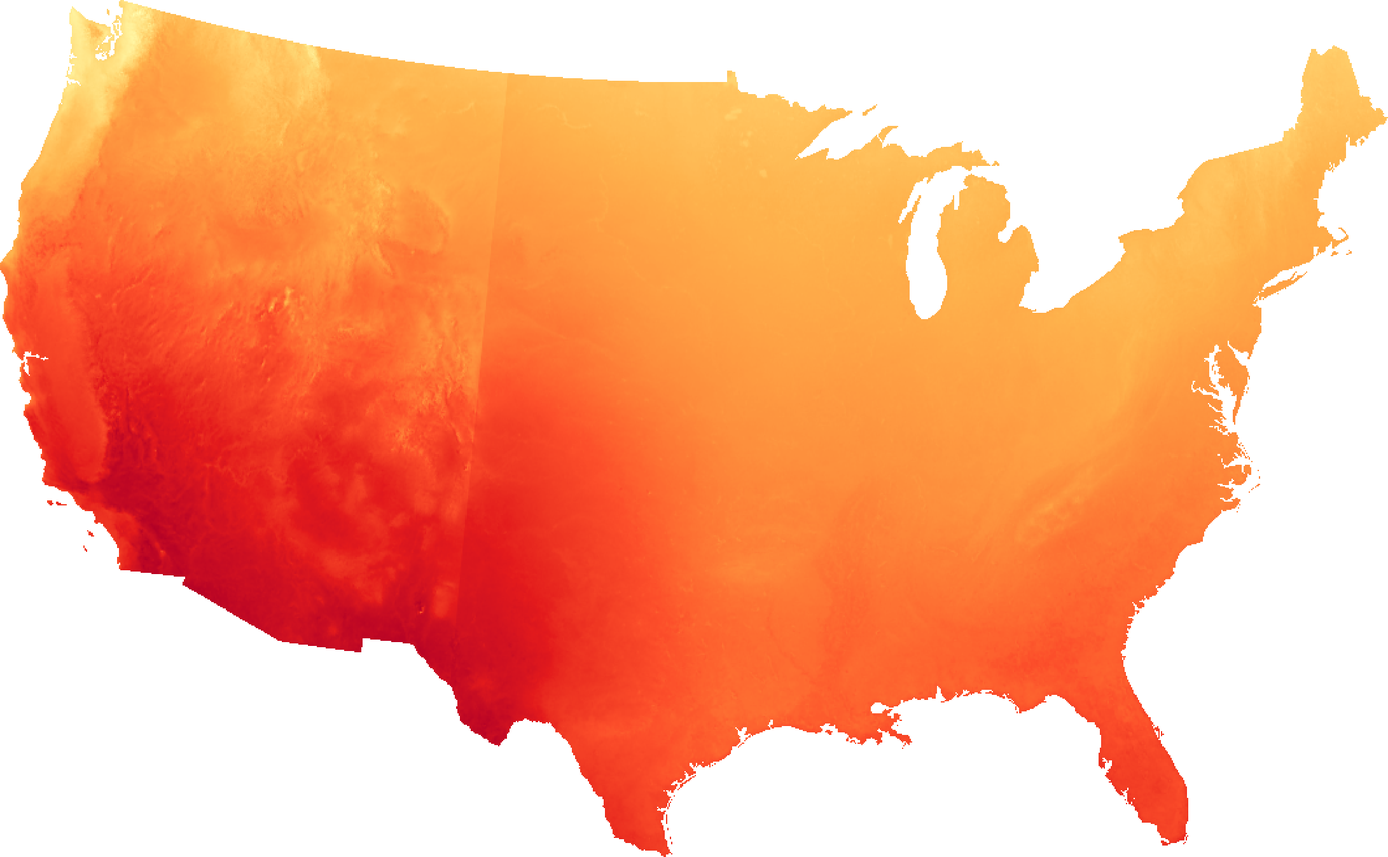
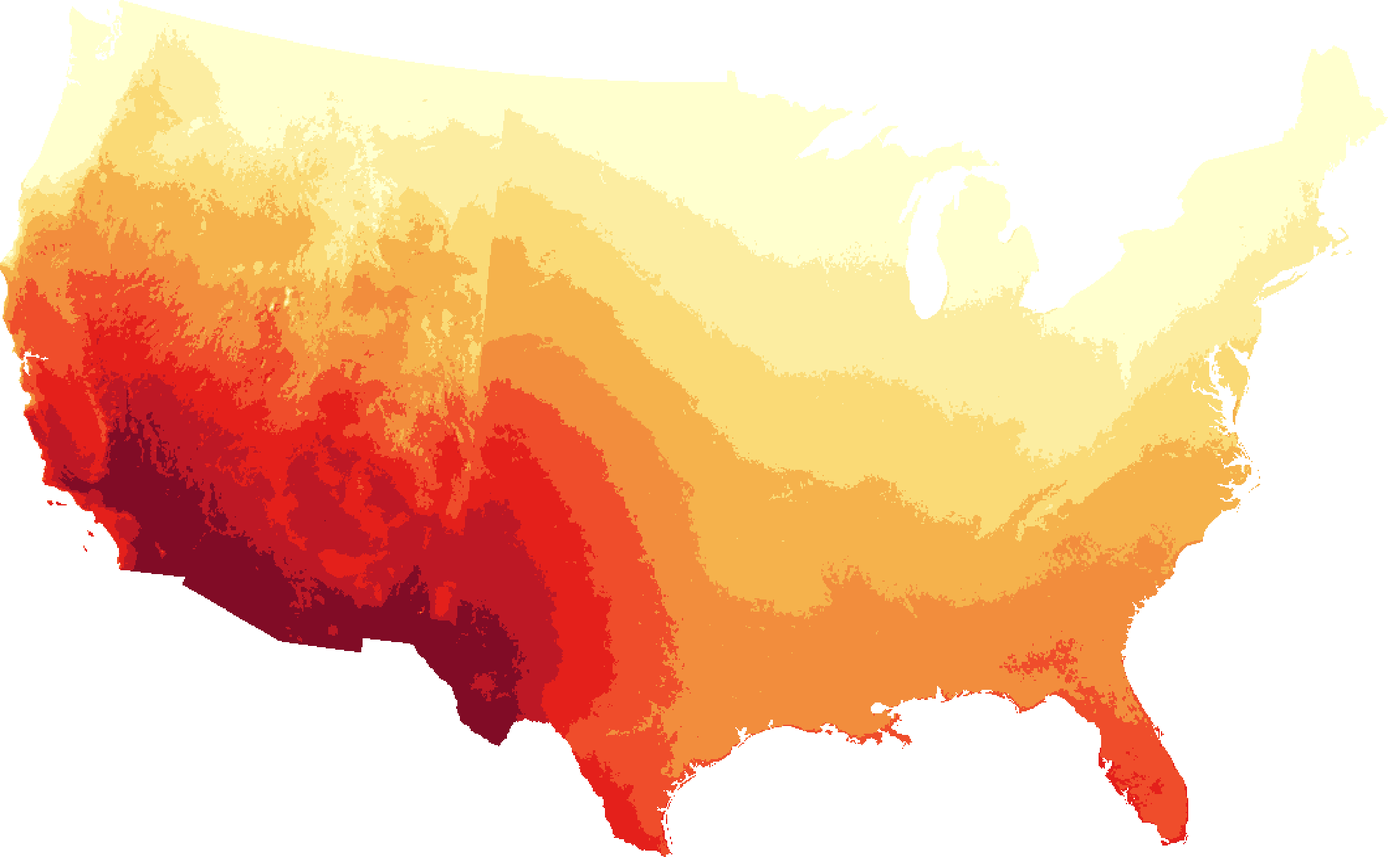
New rasters and legends

diff --git a/docs/assets/bundle.js b/docs/assets/bundle.js
@@ -8,7 +8,7 @@
  *
  * This source code is licensed under the ISC license.
  * See the LICENSE file in the root directory of this source tree.
- */const Qr={xmlns:"http://www.w3.org/2000/svg",width:24,height:24,viewBox:"0 0 24 24",fill:"none",stroke:"currentColor","stroke-width":2,"stroke-linecap":"round","stroke-linejoin":"round"},f7=Qr;function d7(e,t,n){const r=e.slice();return r[11]=t[n][0],r[12]=t[n][1],r}function l5(e){let t,n=[e[12]],r={};for(let i=0;i<n.length;i+=1)r=J1(r,n[i]);return{c(){t=I1(e[11]),y2(t,r)},m(i,a){z(i,t,a)},p(i,a){y2(t,r=q4(n,[a&32&&i[12]]))},d(i){i&&H(t)}}}function g7(e){let t=e[11],n,r=e[11]&&l5(e);return{c(){r&&r.c(),n=g3()},m(i,a){r&&r.m(i,a),z(i,n,a)},p(i,a){i[11]?t?A1(t,i[11])?(r.d(1),r=l5(i),t=i[11],r.c(),r.m(n.parentNode,n)):r.p(i,a):(r=l5(i),t=i[11],r.c(),r.m(n.parentNode,n)):t&&(r.d(1),r=null,t=i[11])},d(i){i&&H(n),r&&r.d(i)}}}function $r(e){let t,n,r,i,a,o=e[5],s=[];for(let p=0;p<o.length;p+=1)s[p]=g7(d7(e,o,p));const c=e[10].default,u=R1(c,e,e[9],null);let l=[f7,e[7],{width:e[2]},{height:e[2]},{stroke:e[1]},{"stroke-width":r=e[4]?Number(e[3])*24/Number(e[2]):e[3]},{class:i=e[6]("lucide-icon","lucide",e[0]?`lucide-${e[0]}`:"",e[8].class)}],d={};for(let p=0;p<l.length;p+=1)d=J1(d,l[p]);return{c(){t=I1("svg");for(let p=0;p<s.length;p+=1)s[p].c();n=g3(),u&&u.c(),y2(t,d)},m(p,f){z(p,t,f);for(let g=0;g<s.length;g+=1)s[g]&&s[g].m(t,null);L(t,n),u&&u.m(t,null),a=!0},p(p,[f]){if(f&32){o=p[5];let g;for(g=0;g<o.length;g+=1){const m=d7(p,o,g);s[g]?s[g].p(m,f):(s[g]=g7(m),s[g].c(),s[g].m(t,n))}for(;g<s.length;g+=1)s[g].d(1);s.length=o.length}u&&u.p&&(!a||f&512)&&P1(u,c,p,p[9],a?v1(c,p[9],f,null):b1(p[9]),null),y2(t,d=q4(l,[f7,f&128&&p[7],(!a||f&4)&&{width:p[2]},(!a||f&4)&&{height:p[2]},(!a||f&2)&&{stroke:p[1]},(!a||f&28&&r!==(r=p[4]?Number(p[3])*24/Number(p[2]):p[3]))&&{"stroke-width":r},(!a||f&257&&i!==(i=p[6]("lucide-icon","lucide",p[0]?`lucide-${p[0]}`:"",p[8].class)))&&{class:i}]))},i(p){a||(F(u,p),a=!0)},o(p){B(u,p),a=!1},d(p){p&&H(t),N1(s,p),u&&u.d(p)}}}function ei(e,t,n){const r=["name","color","size","strokeWidth","absoluteStrokeWidth","iconNode"];let i=i9(t,r),{$$slots:a={},$$scope:o}=t,{name:s=void 0}=t,{color:c="currentColor"}=t,{size:u=24}=t,{strokeWidth:l=2}=t,{absoluteStrokeWidth:d=!1}=t,{iconNode:p}=t;const f=(...g)=>g.filter((m,I,h)=>!!m&&h.indexOf(m)===I).join(" ");return e.$$set=g=>{n(8,t=J1(J1({},t),g4(g))),n(7,i=i9(t,r)),"name"in g&&n(0,s=g.name),"color"in g&&n(1,c=g.color),"size"in g&&n(2,u=g.size),"strokeWidth"in g&&n(3,l=g.strokeWidth),"absoluteStrokeWidth"in g&&n(4,d=g.absoluteStrokeWidth),"iconNode"in g&&n(5,p=g.iconNode),"$$scope"in g&&n(9,o=g.$$scope)},t=g4(t),[s,c,u,l,d,p,f,i,t,o,a]}class ti extends M1{constructor(t){super(),F1(this,t,ei,$r,A1,{name:0,color:1,size:2,strokeWidth:3,absoluteStrokeWidth:4,iconNode:5})}}const v6=ti;function ni(e){let t;const n=e[2].default,r=R1(n,e,e[3],null);return{c(){r&&r.c()},m(i,a){r&&r.m(i,a),t=!0},p(i,a){r&&r.p&&(!t||a&8)&&P1(r,n,i,i[3],t?v1(n,i[3],a,null):b1(i[3]),null)},i(i){t||(F(r,i),t=!0)},o(i){B(r,i),t=!1},d(i){r&&r.d(i)}}}function ri(e){let t,n;const r=[{name:"layers"},e[1],{iconNode:e[0]}];let i={$$slots:{default:[ni]},$$scope:{ctx:e}};for(let a=0;a<r.length;a+=1)i=J1(i,r[a]);return t=new v6({props:i}),{c(){D1(t.$$.fragment)},m(a,o){m1(t,a,o),n=!0},p(a,[o]){const s=o&3?q4(r,[r[0],o&2&&P7(a[1]),o&1&&{iconNode:a[0]}]):{};o&8&&(s.$$scope={dirty:o,ctx:a}),t.$set(s)},i(a){n||(F(t.$$.fragment,a),n=!0)},o(a){B(t.$$.fragment,a),n=!1},d(a){y1(t,a)}}}function ii(e,t,n){let{$$slots:r={},$$scope:i}=t;const a=[["path",{d:"m12.83 2.18a2 2 0 0 0-1.66 0L2.6 6.08a1 1 0 0 0 0 1.83l8.58 3.91a2 2 0 0 0 1.66 0l8.58-3.9a1 1 0 0 0 0-1.83Z"}],["path",{d:"m22 17.65-9.17 4.16a2 2 0 0 1-1.66 0L2 17.65"}],["path",{d:"m22 12.65-9.17 4.16a2 2 0 0 1-1.66 0L2 12.65"}]];return e.$$set=o=>{n(1,t=J1(J1({},t),g4(o))),"$$scope"in o&&n(3,i=o.$$scope)},t=g4(t),[a,t,r,i]}class oi extends M1{constructor(t){super(),F1(this,t,ii,ri,A1,{})}}const ai=oi;function si(e){let t;const n=e[2].default,r=R1(n,e,e[3],null);return{c(){r&&r.c()},m(i,a){r&&r.m(i,a),t=!0},p(i,a){r&&r.p&&(!t||a&8)&&P1(r,n,i,i[3],t?v1(n,i[3],a,null):b1(i[3]),null)},i(i){t||(F(r,i),t=!0)},o(i){B(r,i),t=!1},d(i){r&&r.d(i)}}}function li(e){let t,n;const r=[{name:"search"},e[1],{iconNode:e[0]}];let i={$$slots:{default:[si]},$$scope:{ctx:e}};for(let a=0;a<r.length;a+=1)i=J1(i,r[a]);return t=new v6({props:i}),{c(){D1(t.$$.fragment)},m(a,o){m1(t,a,o),n=!0},p(a,[o]){const s=o&3?q4(r,[r[0],o&2&&P7(a[1]),o&1&&{iconNode:a[0]}]):{};o&8&&(s.$$scope={dirty:o,ctx:a}),t.$set(s)},i(a){n||(F(t.$$.fragment,a),n=!0)},o(a){B(t.$$.fragment,a),n=!1},d(a){y1(t,a)}}}function ci(e,t,n){let{$$slots:r={},$$scope:i}=t;const a=[["circle",{cx:"11",cy:"11",r:"8"}],["path",{d:"m21 21-4.3-4.3"}]];return e.$$set=o=>{n(1,t=J1(J1({},t),g4(o))),"$$scope"in o&&n(3,i=o.$$scope)},t=g4(t),[a,t,r,i]}class ui extends M1{constructor(t){super(),F1(this,t,ci,li,A1,{})}}const pi=ui;function fi(e){let t,n,r;return n=new pi({props:{size:"16",color:"#7B8792"}}),{c(){t=W("div"),D1(n.$$.fragment),S(t,"slot","prepend")},m(i,a){z(i,t,a),m1(n,t,null),r=!0},p:$,i(i){r||(F(n.$$.fragment,i),r=!0)},o(i){B(n.$$.fragment,i),r=!1},d(i){i&&H(t),y1(n)}}}function di(e){let t,n,r;return n=new ai({props:{size:"16",color:"#7B8792"}}),{c(){t=W("div"),D1(n.$$.fragment),S(t,"slot","prepend")},m(i,a){z(i,t,a),m1(n,t,null),r=!0},p:$,i(i){r||(F(n.$$.fragment,i),r=!0)},o(i){B(n.$$.fragment,i),r=!1},d(i){i&&H(t),y1(n)}}}function gi(e){let t,n,r,i,a,o,s,c,u,l,d,p;function f(h){e[6](h)}let g={items:e[2].map(m7),placeholder:"Search all projects",$$slots:{prepend:[fi]},$$scope:{ctx:e}};e[0]!==void 0&&(g.justValue=e[0]),n=new p7({props:g}),q1.push(()=>u4(n,"justValue",f));function m(h){e[7](h)}let I={items:e[5],groupBy:mi,placeholder:"Add additional map layers",$$slots:{prepend:[di]},$$scope:{ctx:e}};return e[1]!==void 0&&(I.justValue=e[1]),s=new p7({props:I}),q1.push(()=>u4(s,"justValue",m)),{c(){t=W("div"),r=W("div"),D1(n.$$.fragment),o=Z(),c=W("div"),D1(s.$$.fragment),V1(r,"display","contents"),V1(r,"--width",a=e[3]/(e[4]?1:2)+"px"),V1(c,"display","contents"),V1(c,"--width",l=e[3]/(e[4]?1:2)+"px"),V1(c,"--group-title-text-transform","none"),S(t,"class","g-controls svelte-19fxafz"),I2(()=>e[8].call(t))},m(h,T){z(h,t,T),L(t,r),m1(n,r,null),L(t,o),L(t,c),m1(s,c,null),d=r0(t,e[8].bind(t)),p=!0},p(h,[T]){T&24&&a!==(a=h[3]/(h[4]?1:2)+"px")&&V1(r,"--width",a);const v={};T&4&&(v.items=h[2].map(m7)),T&512&&(v.$$scope={dirty:T,ctx:h}),!i&&T&1&&(i=!0,v.justValue=h[0],c4(()=>i=!1)),n.$set(v),T&24&&l!==(l=h[3]/(h[4]?1:2)+"px")&&V1(c,"--width",l);const y={};T&512&&(y.$$scope={dirty:T,ctx:h}),!u&&T&2&&(u=!0,y.justValue=h[1],c4(()=>u=!1)),s.$set(y)},i(h){p||(F(n.$$.fragment,h),F(s.$$.fragment,h),p=!0)},o(h){B(n.$$.fragment,h),B(s.$$.fragment,h),p=!1},d(h){h&&H(t),y1(n),y1(s),d()}}}const m7=e=>e.Name,mi=e=>e.group;function yi(e,t,n){let r;c5(e,E0,p=>n(4,r=p));let{lines:i}=t,{activeLine:a=void 0}=t,{activeLayer:o}=t,s=[{value:"districts",label:"118th Congressional districts"},{value:"solar",label:"Solar resource",group:"Clean energy examples"},{value:"wind",label:"Wind resource",group:"Clean energy examples"}],c;function u(p){a=p,n(0,a)}function l(p){o=p,n(1,o)}function d(){c=this.clientWidth,n(3,c)}return e.$$set=p=>{"lines"in p&&n(2,i=p.lines),"activeLine"in p&&n(0,a=p.activeLine),"activeLayer"in p&&n(1,o=p.activeLayer)},[a,o,i,c,r,s,u,l,d]}class Ii extends M1{constructor(t){super(),F1(this,t,yi,gi,A1,{lines:2,activeLine:0,activeLayer:1})}}var P6={exports:{}};/*! pym.js - v1.3.2 - 2018-02-13 */(function(e){(function(t){e.exports?e.exports=t():window.pym=t.call(this)})(function(){var t="xPYMx",n={},r=function(p){var f=document.createEvent("Event");f.initEvent("pym:"+p,!0,!0),document.dispatchEvent(f)},i=function(p){var f=new RegExp("[\\?&]"+p.replace(/[\[]/,"\\[").replace(/[\]]/,"\\]")+"=([^&#]*)"),g=f.exec(location.search);return g===null?"":decodeURIComponent(g[1].replace(/\+/g," "))},a=function(p,f){if(!(f.xdomain!=="*"&&!p.origin.match(new RegExp(f.xdomain+"$")))&&typeof p.data=="string")return!0},o=function(p){var f=/^(?:(?:https?|mailto|ftp):|[^&:/?#]*(?:[/?#]|$))/gi;if(p.match(f))return!0},s=function(p,f,g){var m=["pym",p,f,g];return m.join(t)},c=function(p){var f=["pym",p,"(\\S+)","(.*)"];return new RegExp("^"+f.join(t)+"$")},u=Date.now||function(){return new Date().getTime()},l=function(p,f,g){var m,I,h,T=null,v=0;g||(g={});var y=function(){v=g.leading===!1?0:u(),T=null,h=p.apply(m,I),T||(m=I=null)};return function(){var R=u();!v&&g.leading===!1&&(v=R);var P=f-(R-v);return m=this,I=arguments,P<=0||P>f?(T&&(clearTimeout(T),T=null),v=R,h=p.apply(m,I),T||(m=I=null)):!T&&g.trailing!==!1&&(T=setTimeout(y,P)),h}},d=function(){for(var p=n.autoInitInstances.length,f=p-1;f>=0;f--){var g=n.autoInitInstances[f];g.el.getElementsByTagName("iframe").length&&g.el.getElementsByTagName("iframe")[0].contentWindow||n.autoInitInstances.splice(f,1)}};return n.autoInitInstances=[],n.autoInit=function(p){var f=document.querySelectorAll("[data-pym-src]:not([data-pym-auto-initialized])"),g=f.length;d();for(var m=0;m<g;++m){var I=f[m];I.setAttribute("data-pym-auto-initialized",""),I.id===""&&(I.id="pym-"+m+"-"+Math.random().toString(36).substr(2,5));var h=I.getAttribute("data-pym-src"),T={xdomain:"string",title:"string",name:"string",id:"string",sandbox:"string",allowfullscreen:"boolean",parenturlparam:"string",parenturlvalue:"string",optionalparams:"boolean",trackscroll:"boolean",scrollwait:"number"},v={};for(var y in T)if(I.getAttribute("data-pym-"+y)!==null)switch(T[y]){case"boolean":v[y]=I.getAttribute("data-pym-"+y)!=="false";break;case"string":v[y]=I.getAttribute("data-pym-"+y);break;case"number":var R=Number(I.getAttribute("data-pym-"+y));isNaN(R)||(v[y]=R);break;default:console.err("unrecognized attribute type")}var P=new n.Parent(I.id,h,v);n.autoInitInstances.push(P)}return p||r("pym-initialized"),n.autoInitInstances},n.Parent=function(p,f,g){this.id=p,this.url=f,this.el=document.getElementById(p),this.iframe=null,this.settings={xdomain:"*",optionalparams:!0,parenturlparam:"parentUrl",parenturlvalue:window.location.href,trackscroll:!1,scrollwait:100},this.messageRegex=c(this.id),this.messageHandlers={},g=g||{},this._constructIframe=function(){var I=this.el.offsetWidth.toString();this.iframe=document.createElement("iframe");var h="",T=this.url.indexOf("#");for(T>-1&&(h=this.url.substring(T,this.url.length),this.url=this.url.substring(0,T)),this.url.indexOf("?")<0?this.url+="?":this.url+="&",this.iframe.src=this.url+"initialWidth="+I+"&childId="+this.id,this.settings.optionalparams&&(this.iframe.src+="&parentTitle="+encodeURIComponent(document.title),this.iframe.src+="&"+this.settings.parenturlparam+"="+encodeURIComponent(this.settings.parenturlvalue)),this.iframe.src+=h,this.iframe.setAttribute("width","100%"),this.iframe.setAttribute("scrolling","no"),this.iframe.setAttribute("marginheight","0"),this.iframe.setAttribute("frameborder","0"),this.settings.title&&this.iframe.setAttribute("title",this.settings.title),this.settings.allowfullscreen!==void 0&&this.settings.allowfullscreen!==!1&&this.iframe.setAttribute("allowfullscreen",""),this.settings.sandbox!==void 0&&typeof this.settings.sandbox=="string"&&this.iframe.setAttribute("sandbox",this.settings.sandbox),this.settings.id&&(document.getElementById(this.settings.id)||this.iframe.setAttribute("id",this.settings.id)),this.settings.name&&this.iframe.setAttribute("name",this.settings.name);this.el.firstChild;)this.el.removeChild(this.el.firstChild);this.el.appendChild(this.iframe),window.addEventListener("resize",this._onResize),this.settings.trackscroll&&window.addEventListener("scroll",this._throttleOnScroll)},this._onResize=(function(){this.sendWidth(),this.settings.trackscroll&&this.sendViewportAndIFramePosition()}).bind(this),this._onScroll=(function(){this.sendViewportAndIFramePosition()}).bind(this),this._fire=function(I,h){if(I in this.messageHandlers)for(var T=0;T<this.messageHandlers[I].length;T++)this.messageHandlers[I][T].call(this,h)},this.remove=function(){window.removeEventListener("message",this._processMessage),window.removeEventListener("resize",this._onResize),this.el.removeChild(this.iframe),d()},this._processMessage=(function(I){if(a(I,this.settings)&&typeof I.data=="string"){var h=I.data.match(this.messageRegex);if(!h||h.length!==3)return!1;var T=h[1],v=h[2];this._fire(T,v)}}).bind(this),this._onHeightMessage=function(I){var h=parseInt(I);this.iframe.setAttribute("height",h+"px")},this._onNavigateToMessage=function(I){o(I)&&(document.location.href=I)},this._onScrollToChildPosMessage=function(I){var h=document.getElementById(this.id).getBoundingClientRect().top+window.pageYOffset,T=h+parseInt(I);window.scrollTo(0,T)},this.onMessage=function(I,h){I in this.messageHandlers||(this.messageHandlers[I]=[]),this.messageHandlers[I].push(h)},this.sendMessage=function(I,h){this.el.getElementsByTagName("iframe").length&&(this.el.getElementsByTagName("iframe")[0].contentWindow?this.el.getElementsByTagName("iframe")[0].contentWindow.postMessage(s(this.id,I,h),"*"):this.remove())},this.sendWidth=function(){var I=this.el.offsetWidth.toString();this.sendMessage("width",I)},this.sendViewportAndIFramePosition=function(){var I=this.iframe.getBoundingClientRect(),h=window.innerWidth||document.documentElement.clientWidth,T=window.innerHeight||document.documentElement.clientHeight,v=h+" "+T;v+=" "+I.top+" "+I.left,v+=" "+I.bottom+" "+I.right,this.sendMessage("viewport-iframe-position",v)};for(var m in g)this.settings[m]=g[m];return this._throttleOnScroll=l(this._onScroll.bind(this),this.settings.scrollwait),this.onMessage("height",this._onHeightMessage),this.onMessage("navigateTo",this._onNavigateToMessage),this.onMessage("scrollToChildPos",this._onScrollToChildPosMessage),this.onMessage("parentPositionInfo",this.sendViewportAndIFramePosition),window.addEventListener("message",this._processMessage,!1),this._constructIframe(),this},n.Child=function(p){this.parentWidth=null,this.id=null,this.parentTitle=null,this.parentUrl=null,this.settings={renderCallback:null,xdomain:"*",polling:0,parenturlparam:"parentUrl"},this.timerId=null,this.messageRegex=null,this.messageHandlers={},p=p||{},this.onMessage=function(I,h){I in this.messageHandlers||(this.messageHandlers[I]=[]),this.messageHandlers[I].push(h)},this._fire=function(I,h){if(I in this.messageHandlers)for(var T=0;T<this.messageHandlers[I].length;T++)this.messageHandlers[I][T].call(this,h)},this._processMessage=(function(I){if(a(I,this.settings)&&typeof I.data=="string"){var h=I.data.match(this.messageRegex);if(!(!h||h.length!==3)){var T=h[1],v=h[2];this._fire(T,v)}}}).bind(this),this._onWidthMessage=function(I){var h=parseInt(I);h!==this.parentWidth&&(this.parentWidth=h,this.settings.renderCallback&&this.settings.renderCallback(h),this.sendHeight())},this.sendMessage=function(I,h){window.parent.postMessage(s(this.id,I,h),"*")},this.sendHeight=(function(){var I=document.getElementsByTagName("body")[0].offsetHeight.toString();return this.sendMessage("height",I),I}).bind(this),this.getParentPositionInfo=function(){this.sendMessage("parentPositionInfo")},this.scrollParentTo=function(I){this.sendMessage("navigateTo","#"+I)},this.navigateParentTo=function(I){this.sendMessage("navigateTo",I)},this.scrollParentToChildEl=function(I){var h=document.getElementById(I).getBoundingClientRect().top+window.pageYOffset;this.scrollParentToChildPos(h)},this.scrollParentToChildPos=function(I){this.sendMessage("scrollToChildPos",I.toString())};var f=function(I){var h=document.getElementsByTagName("html")[0],T,v=h.className;try{window.self!==window.top?T="embedded":T="not-embedded"}catch{T="embedded"}v.indexOf(T)<0&&(h.className=v?v+" "+T:T,I&&I(T),r("marked-embedded"))};this.remove=function(){window.removeEventListener("message",this._processMessage),this.timerId&&clearInterval(this.timerId)};for(var g in p)this.settings[g]=p[g];this.id=i("childId")||p.id,this.messageRegex=new RegExp("^pym"+t+this.id+t+"(\\S+)"+t+"(.*)$");var m=parseInt(i("initialWidth"));return this.parentUrl=i(this.settings.parenturlparam),this.parentTitle=i("parentTitle"),this.onMessage("width",this._onWidthMessage),window.addEventListener("message",this._processMessage,!1),this.settings.renderCallback&&this.settings.renderCallback(m),this.sendHeight(),this.settings.polling&&(this.timerId=window.setInterval(this.sendHeight,this.settings.polling)),f(p.onMarkedEmbeddedStatus),this},typeof document<"u"&&n.autoInit(!0),n})})(P6);var Di=P6.exports;const hi=b7(Di);function Ti(e){let t,n,r,i,a,o,s,c,u,l,d,p,f,g,m,I,h,T,v,y,R,P,w,Y,C,k,b,E;t=new F0({});function M(N){e[2](N)}function V(N){e[3](N)}let _={lines:L5};e[1]!==void 0&&(_.activeLayer=e[1]),e[0]!==void 0&&(_.activeLine=e[0]),f=new Ii({props:_}),q1.push(()=>u4(f,"activeLayer",M)),q1.push(()=>u4(f,"activeLine",V));function j(N){e[4](N)}let X={activeLayer:e[1]};e[0]!==void 0&&(X.activeLine=e[0]),h=new vn({props:X}),q1.push(()=>u4(h,"activeLine",j)),y=new Sn({props:{activeLine:e[0]}});function q(N){e[5](N)}let O={data:L5};return e[0]!==void 0&&(O.activeLine=e[0]),P=new Cn({props:O}),q1.push(()=>u4(P,"activeLine",q)),{c(){D1(t.$$.fragment),n=Z(),r=W("div"),i=W("h1"),i.textContent="Visualizing electric transmission permitting: data from 2010 to 2020",a=Z(),o=W("p"),o.innerHTML=`The Niskanen Center and Clean Air Task Force published a report in March
+ */const Qr={xmlns:"http://www.w3.org/2000/svg",width:24,height:24,viewBox:"0 0 24 24",fill:"none",stroke:"currentColor","stroke-width":2,"stroke-linecap":"round","stroke-linejoin":"round"},f7=Qr;function d7(e,t,n){const r=e.slice();return r[11]=t[n][0],r[12]=t[n][1],r}function l5(e){let t,n=[e[12]],r={};for(let i=0;i<n.length;i+=1)r=J1(r,n[i]);return{c(){t=I1(e[11]),y2(t,r)},m(i,a){z(i,t,a)},p(i,a){y2(t,r=q4(n,[a&32&&i[12]]))},d(i){i&&H(t)}}}function g7(e){let t=e[11],n,r=e[11]&&l5(e);return{c(){r&&r.c(),n=g3()},m(i,a){r&&r.m(i,a),z(i,n,a)},p(i,a){i[11]?t?A1(t,i[11])?(r.d(1),r=l5(i),t=i[11],r.c(),r.m(n.parentNode,n)):r.p(i,a):(r=l5(i),t=i[11],r.c(),r.m(n.parentNode,n)):t&&(r.d(1),r=null,t=i[11])},d(i){i&&H(n),r&&r.d(i)}}}function $r(e){let t,n,r,i,a,o=e[5],s=[];for(let p=0;p<o.length;p+=1)s[p]=g7(d7(e,o,p));const c=e[10].default,u=R1(c,e,e[9],null);let l=[f7,e[7],{width:e[2]},{height:e[2]},{stroke:e[1]},{"stroke-width":r=e[4]?Number(e[3])*24/Number(e[2]):e[3]},{class:i=e[6]("lucide-icon","lucide",e[0]?`lucide-${e[0]}`:"",e[8].class)}],d={};for(let p=0;p<l.length;p+=1)d=J1(d,l[p]);return{c(){t=I1("svg");for(let p=0;p<s.length;p+=1)s[p].c();n=g3(),u&&u.c(),y2(t,d)},m(p,f){z(p,t,f);for(let g=0;g<s.length;g+=1)s[g]&&s[g].m(t,null);L(t,n),u&&u.m(t,null),a=!0},p(p,[f]){if(f&32){o=p[5];let g;for(g=0;g<o.length;g+=1){const m=d7(p,o,g);s[g]?s[g].p(m,f):(s[g]=g7(m),s[g].c(),s[g].m(t,n))}for(;g<s.length;g+=1)s[g].d(1);s.length=o.length}u&&u.p&&(!a||f&512)&&P1(u,c,p,p[9],a?v1(c,p[9],f,null):b1(p[9]),null),y2(t,d=q4(l,[f7,f&128&&p[7],(!a||f&4)&&{width:p[2]},(!a||f&4)&&{height:p[2]},(!a||f&2)&&{stroke:p[1]},(!a||f&28&&r!==(r=p[4]?Number(p[3])*24/Number(p[2]):p[3]))&&{"stroke-width":r},(!a||f&257&&i!==(i=p[6]("lucide-icon","lucide",p[0]?`lucide-${p[0]}`:"",p[8].class)))&&{class:i}]))},i(p){a||(F(u,p),a=!0)},o(p){B(u,p),a=!1},d(p){p&&H(t),N1(s,p),u&&u.d(p)}}}function ei(e,t,n){const r=["name","color","size","strokeWidth","absoluteStrokeWidth","iconNode"];let i=i9(t,r),{$$slots:a={},$$scope:o}=t,{name:s=void 0}=t,{color:c="currentColor"}=t,{size:u=24}=t,{strokeWidth:l=2}=t,{absoluteStrokeWidth:d=!1}=t,{iconNode:p}=t;const f=(...g)=>g.filter((m,I,h)=>!!m&&h.indexOf(m)===I).join(" ");return e.$$set=g=>{n(8,t=J1(J1({},t),g4(g))),n(7,i=i9(t,r)),"name"in g&&n(0,s=g.name),"color"in g&&n(1,c=g.color),"size"in g&&n(2,u=g.size),"strokeWidth"in g&&n(3,l=g.strokeWidth),"absoluteStrokeWidth"in g&&n(4,d=g.absoluteStrokeWidth),"iconNode"in g&&n(5,p=g.iconNode),"$$scope"in g&&n(9,o=g.$$scope)},t=g4(t),[s,c,u,l,d,p,f,i,t,o,a]}class ti extends M1{constructor(t){super(),F1(this,t,ei,$r,A1,{name:0,color:1,size:2,strokeWidth:3,absoluteStrokeWidth:4,iconNode:5})}}const v6=ti;function ni(e){let t;const n=e[2].default,r=R1(n,e,e[3],null);return{c(){r&&r.c()},m(i,a){r&&r.m(i,a),t=!0},p(i,a){r&&r.p&&(!t||a&8)&&P1(r,n,i,i[3],t?v1(n,i[3],a,null):b1(i[3]),null)},i(i){t||(F(r,i),t=!0)},o(i){B(r,i),t=!1},d(i){r&&r.d(i)}}}function ri(e){let t,n;const r=[{name:"layers"},e[1],{iconNode:e[0]}];let i={$$slots:{default:[ni]},$$scope:{ctx:e}};for(let a=0;a<r.length;a+=1)i=J1(i,r[a]);return t=new v6({props:i}),{c(){D1(t.$$.fragment)},m(a,o){m1(t,a,o),n=!0},p(a,[o]){const s=o&3?q4(r,[r[0],o&2&&P7(a[1]),o&1&&{iconNode:a[0]}]):{};o&8&&(s.$$scope={dirty:o,ctx:a}),t.$set(s)},i(a){n||(F(t.$$.fragment,a),n=!0)},o(a){B(t.$$.fragment,a),n=!1},d(a){y1(t,a)}}}function ii(e,t,n){let{$$slots:r={},$$scope:i}=t;const a=[["path",{d:"m12.83 2.18a2 2 0 0 0-1.66 0L2.6 6.08a1 1 0 0 0 0 1.83l8.58 3.91a2 2 0 0 0 1.66 0l8.58-3.9a1 1 0 0 0 0-1.83Z"}],["path",{d:"m22 17.65-9.17 4.16a2 2 0 0 1-1.66 0L2 17.65"}],["path",{d:"m22 12.65-9.17 4.16a2 2 0 0 1-1.66 0L2 12.65"}]];return e.$$set=o=>{n(1,t=J1(J1({},t),g4(o))),"$$scope"in o&&n(3,i=o.$$scope)},t=g4(t),[a,t,r,i]}class oi extends M1{constructor(t){super(),F1(this,t,ii,ri,A1,{})}}const ai=oi;function si(e){let t;const n=e[2].default,r=R1(n,e,e[3],null);return{c(){r&&r.c()},m(i,a){r&&r.m(i,a),t=!0},p(i,a){r&&r.p&&(!t||a&8)&&P1(r,n,i,i[3],t?v1(n,i[3],a,null):b1(i[3]),null)},i(i){t||(F(r,i),t=!0)},o(i){B(r,i),t=!1},d(i){r&&r.d(i)}}}function li(e){let t,n;const r=[{name:"search"},e[1],{iconNode:e[0]}];let i={$$slots:{default:[si]},$$scope:{ctx:e}};for(let a=0;a<r.length;a+=1)i=J1(i,r[a]);return t=new v6({props:i}),{c(){D1(t.$$.fragment)},m(a,o){m1(t,a,o),n=!0},p(a,[o]){const s=o&3?q4(r,[r[0],o&2&&P7(a[1]),o&1&&{iconNode:a[0]}]):{};o&8&&(s.$$scope={dirty:o,ctx:a}),t.$set(s)},i(a){n||(F(t.$$.fragment,a),n=!0)},o(a){B(t.$$.fragment,a),n=!1},d(a){y1(t,a)}}}function ci(e,t,n){let{$$slots:r={},$$scope:i}=t;const a=[["circle",{cx:"11",cy:"11",r:"8"}],["path",{d:"m21 21-4.3-4.3"}]];return e.$$set=o=>{n(1,t=J1(J1({},t),g4(o))),"$$scope"in o&&n(3,i=o.$$scope)},t=g4(t),[a,t,r,i]}class ui extends M1{constructor(t){super(),F1(this,t,ci,li,A1,{})}}const pi=ui;function fi(e){let t,n,r;return n=new pi({props:{size:"16",color:"#7B8792"}}),{c(){t=W("div"),D1(n.$$.fragment),S(t,"slot","prepend")},m(i,a){z(i,t,a),m1(n,t,null),r=!0},p:$,i(i){r||(F(n.$$.fragment,i),r=!0)},o(i){B(n.$$.fragment,i),r=!1},d(i){i&&H(t),y1(n)}}}function di(e){let t,n,r;return n=new ai({props:{size:"16",color:"#7B8792"}}),{c(){t=W("div"),D1(n.$$.fragment),S(t,"slot","prepend")},m(i,a){z(i,t,a),m1(n,t,null),r=!0},p:$,i(i){r||(F(n.$$.fragment,i),r=!0)},o(i){B(n.$$.fragment,i),r=!1},d(i){i&&H(t),y1(n)}}}function gi(e){let t,n,r,i,a,o,s,c,u,l,d,p;function f(h){e[6](h)}let g={items:e[2].map(m7),placeholder:"Search all projects",$$slots:{prepend:[fi]},$$scope:{ctx:e}};e[0]!==void 0&&(g.justValue=e[0]),n=new p7({props:g}),q1.push(()=>u4(n,"justValue",f));function m(h){e[7](h)}let I={items:e[5],groupBy:mi,placeholder:"Add additional map layers",$$slots:{prepend:[di]},$$scope:{ctx:e}};return e[1]!==void 0&&(I.justValue=e[1]),s=new p7({props:I}),q1.push(()=>u4(s,"justValue",m)),{c(){t=W("div"),r=W("div"),D1(n.$$.fragment),o=Z(),c=W("div"),D1(s.$$.fragment),V1(r,"display","contents"),V1(r,"--width",a=e[3]/(e[4]?1:2)+"px"),V1(c,"display","contents"),V1(c,"--width",l=e[3]/(e[4]?1:2)+"px"),V1(c,"--group-title-text-transform","none"),S(t,"class","g-controls svelte-19fxafz"),I2(()=>e[8].call(t))},m(h,T){z(h,t,T),L(t,r),m1(n,r,null),L(t,o),L(t,c),m1(s,c,null),d=r0(t,e[8].bind(t)),p=!0},p(h,[T]){T&24&&a!==(a=h[3]/(h[4]?1:2)+"px")&&V1(r,"--width",a);const v={};T&4&&(v.items=h[2].map(m7)),T&512&&(v.$$scope={dirty:T,ctx:h}),!i&&T&1&&(i=!0,v.justValue=h[0],c4(()=>i=!1)),n.$set(v),T&24&&l!==(l=h[3]/(h[4]?1:2)+"px")&&V1(c,"--width",l);const y={};T&512&&(y.$$scope={dirty:T,ctx:h}),!u&&T&2&&(u=!0,y.justValue=h[1],c4(()=>u=!1)),s.$set(y)},i(h){p||(F(n.$$.fragment,h),F(s.$$.fragment,h),p=!0)},o(h){B(n.$$.fragment,h),B(s.$$.fragment,h),p=!1},d(h){h&&H(t),y1(n),y1(s),d()}}}const m7=e=>e.Name,mi=e=>e.group;function yi(e,t,n){let r;c5(e,E0,p=>n(4,r=p));let{lines:i}=t,{activeLine:a=void 0}=t,{activeLayer:o}=t,s=[{value:"districts",label:"Political representation of U.S. congressional districts"},{value:"solar",label:"Solar resource",group:"Clean energy examples"},{value:"wind",label:"Wind resource",group:"Clean energy examples"}],c;function u(p){a=p,n(0,a)}function l(p){o=p,n(1,o)}function d(){c=this.clientWidth,n(3,c)}return e.$$set=p=>{"lines"in p&&n(2,i=p.lines),"activeLine"in p&&n(0,a=p.activeLine),"activeLayer"in p&&n(1,o=p.activeLayer)},[a,o,i,c,r,s,u,l,d]}class Ii extends M1{constructor(t){super(),F1(this,t,yi,gi,A1,{lines:2,activeLine:0,activeLayer:1})}}var P6={exports:{}};/*! pym.js - v1.3.2 - 2018-02-13 */(function(e){(function(t){e.exports?e.exports=t():window.pym=t.call(this)})(function(){var t="xPYMx",n={},r=function(p){var f=document.createEvent("Event");f.initEvent("pym:"+p,!0,!0),document.dispatchEvent(f)},i=function(p){var f=new RegExp("[\\?&]"+p.replace(/[\[]/,"\\[").replace(/[\]]/,"\\]")+"=([^&#]*)"),g=f.exec(location.search);return g===null?"":decodeURIComponent(g[1].replace(/\+/g," "))},a=function(p,f){if(!(f.xdomain!=="*"&&!p.origin.match(new RegExp(f.xdomain+"$")))&&typeof p.data=="string")return!0},o=function(p){var f=/^(?:(?:https?|mailto|ftp):|[^&:/?#]*(?:[/?#]|$))/gi;if(p.match(f))return!0},s=function(p,f,g){var m=["pym",p,f,g];return m.join(t)},c=function(p){var f=["pym",p,"(\\S+)","(.*)"];return new RegExp("^"+f.join(t)+"$")},u=Date.now||function(){return new Date().getTime()},l=function(p,f,g){var m,I,h,T=null,v=0;g||(g={});var y=function(){v=g.leading===!1?0:u(),T=null,h=p.apply(m,I),T||(m=I=null)};return function(){var R=u();!v&&g.leading===!1&&(v=R);var P=f-(R-v);return m=this,I=arguments,P<=0||P>f?(T&&(clearTimeout(T),T=null),v=R,h=p.apply(m,I),T||(m=I=null)):!T&&g.trailing!==!1&&(T=setTimeout(y,P)),h}},d=function(){for(var p=n.autoInitInstances.length,f=p-1;f>=0;f--){var g=n.autoInitInstances[f];g.el.getElementsByTagName("iframe").length&&g.el.getElementsByTagName("iframe")[0].contentWindow||n.autoInitInstances.splice(f,1)}};return n.autoInitInstances=[],n.autoInit=function(p){var f=document.querySelectorAll("[data-pym-src]:not([data-pym-auto-initialized])"),g=f.length;d();for(var m=0;m<g;++m){var I=f[m];I.setAttribute("data-pym-auto-initialized",""),I.id===""&&(I.id="pym-"+m+"-"+Math.random().toString(36).substr(2,5));var h=I.getAttribute("data-pym-src"),T={xdomain:"string",title:"string",name:"string",id:"string",sandbox:"string",allowfullscreen:"boolean",parenturlparam:"string",parenturlvalue:"string",optionalparams:"boolean",trackscroll:"boolean",scrollwait:"number"},v={};for(var y in T)if(I.getAttribute("data-pym-"+y)!==null)switch(T[y]){case"boolean":v[y]=I.getAttribute("data-pym-"+y)!=="false";break;case"string":v[y]=I.getAttribute("data-pym-"+y);break;case"number":var R=Number(I.getAttribute("data-pym-"+y));isNaN(R)||(v[y]=R);break;default:console.err("unrecognized attribute type")}var P=new n.Parent(I.id,h,v);n.autoInitInstances.push(P)}return p||r("pym-initialized"),n.autoInitInstances},n.Parent=function(p,f,g){this.id=p,this.url=f,this.el=document.getElementById(p),this.iframe=null,this.settings={xdomain:"*",optionalparams:!0,parenturlparam:"parentUrl",parenturlvalue:window.location.href,trackscroll:!1,scrollwait:100},this.messageRegex=c(this.id),this.messageHandlers={},g=g||{},this._constructIframe=function(){var I=this.el.offsetWidth.toString();this.iframe=document.createElement("iframe");var h="",T=this.url.indexOf("#");for(T>-1&&(h=this.url.substring(T,this.url.length),this.url=this.url.substring(0,T)),this.url.indexOf("?")<0?this.url+="?":this.url+="&",this.iframe.src=this.url+"initialWidth="+I+"&childId="+this.id,this.settings.optionalparams&&(this.iframe.src+="&parentTitle="+encodeURIComponent(document.title),this.iframe.src+="&"+this.settings.parenturlparam+"="+encodeURIComponent(this.settings.parenturlvalue)),this.iframe.src+=h,this.iframe.setAttribute("width","100%"),this.iframe.setAttribute("scrolling","no"),this.iframe.setAttribute("marginheight","0"),this.iframe.setAttribute("frameborder","0"),this.settings.title&&this.iframe.setAttribute("title",this.settings.title),this.settings.allowfullscreen!==void 0&&this.settings.allowfullscreen!==!1&&this.iframe.setAttribute("allowfullscreen",""),this.settings.sandbox!==void 0&&typeof this.settings.sandbox=="string"&&this.iframe.setAttribute("sandbox",this.settings.sandbox),this.settings.id&&(document.getElementById(this.settings.id)||this.iframe.setAttribute("id",this.settings.id)),this.settings.name&&this.iframe.setAttribute("name",this.settings.name);this.el.firstChild;)this.el.removeChild(this.el.firstChild);this.el.appendChild(this.iframe),window.addEventListener("resize",this._onResize),this.settings.trackscroll&&window.addEventListener("scroll",this._throttleOnScroll)},this._onResize=(function(){this.sendWidth(),this.settings.trackscroll&&this.sendViewportAndIFramePosition()}).bind(this),this._onScroll=(function(){this.sendViewportAndIFramePosition()}).bind(this),this._fire=function(I,h){if(I in this.messageHandlers)for(var T=0;T<this.messageHandlers[I].length;T++)this.messageHandlers[I][T].call(this,h)},this.remove=function(){window.removeEventListener("message",this._processMessage),window.removeEventListener("resize",this._onResize),this.el.removeChild(this.iframe),d()},this._processMessage=(function(I){if(a(I,this.settings)&&typeof I.data=="string"){var h=I.data.match(this.messageRegex);if(!h||h.length!==3)return!1;var T=h[1],v=h[2];this._fire(T,v)}}).bind(this),this._onHeightMessage=function(I){var h=parseInt(I);this.iframe.setAttribute("height",h+"px")},this._onNavigateToMessage=function(I){o(I)&&(document.location.href=I)},this._onScrollToChildPosMessage=function(I){var h=document.getElementById(this.id).getBoundingClientRect().top+window.pageYOffset,T=h+parseInt(I);window.scrollTo(0,T)},this.onMessage=function(I,h){I in this.messageHandlers||(this.messageHandlers[I]=[]),this.messageHandlers[I].push(h)},this.sendMessage=function(I,h){this.el.getElementsByTagName("iframe").length&&(this.el.getElementsByTagName("iframe")[0].contentWindow?this.el.getElementsByTagName("iframe")[0].contentWindow.postMessage(s(this.id,I,h),"*"):this.remove())},this.sendWidth=function(){var I=this.el.offsetWidth.toString();this.sendMessage("width",I)},this.sendViewportAndIFramePosition=function(){var I=this.iframe.getBoundingClientRect(),h=window.innerWidth||document.documentElement.clientWidth,T=window.innerHeight||document.documentElement.clientHeight,v=h+" "+T;v+=" "+I.top+" "+I.left,v+=" "+I.bottom+" "+I.right,this.sendMessage("viewport-iframe-position",v)};for(var m in g)this.settings[m]=g[m];return this._throttleOnScroll=l(this._onScroll.bind(this),this.settings.scrollwait),this.onMessage("height",this._onHeightMessage),this.onMessage("navigateTo",this._onNavigateToMessage),this.onMessage("scrollToChildPos",this._onScrollToChildPosMessage),this.onMessage("parentPositionInfo",this.sendViewportAndIFramePosition),window.addEventListener("message",this._processMessage,!1),this._constructIframe(),this},n.Child=function(p){this.parentWidth=null,this.id=null,this.parentTitle=null,this.parentUrl=null,this.settings={renderCallback:null,xdomain:"*",polling:0,parenturlparam:"parentUrl"},this.timerId=null,this.messageRegex=null,this.messageHandlers={},p=p||{},this.onMessage=function(I,h){I in this.messageHandlers||(this.messageHandlers[I]=[]),this.messageHandlers[I].push(h)},this._fire=function(I,h){if(I in this.messageHandlers)for(var T=0;T<this.messageHandlers[I].length;T++)this.messageHandlers[I][T].call(this,h)},this._processMessage=(function(I){if(a(I,this.settings)&&typeof I.data=="string"){var h=I.data.match(this.messageRegex);if(!(!h||h.length!==3)){var T=h[1],v=h[2];this._fire(T,v)}}}).bind(this),this._onWidthMessage=function(I){var h=parseInt(I);h!==this.parentWidth&&(this.parentWidth=h,this.settings.renderCallback&&this.settings.renderCallback(h),this.sendHeight())},this.sendMessage=function(I,h){window.parent.postMessage(s(this.id,I,h),"*")},this.sendHeight=(function(){var I=document.getElementsByTagName("body")[0].offsetHeight.toString();return this.sendMessage("height",I),I}).bind(this),this.getParentPositionInfo=function(){this.sendMessage("parentPositionInfo")},this.scrollParentTo=function(I){this.sendMessage("navigateTo","#"+I)},this.navigateParentTo=function(I){this.sendMessage("navigateTo",I)},this.scrollParentToChildEl=function(I){var h=document.getElementById(I).getBoundingClientRect().top+window.pageYOffset;this.scrollParentToChildPos(h)},this.scrollParentToChildPos=function(I){this.sendMessage("scrollToChildPos",I.toString())};var f=function(I){var h=document.getElementsByTagName("html")[0],T,v=h.className;try{window.self!==window.top?T="embedded":T="not-embedded"}catch{T="embedded"}v.indexOf(T)<0&&(h.className=v?v+" "+T:T,I&&I(T),r("marked-embedded"))};this.remove=function(){window.removeEventListener("message",this._processMessage),this.timerId&&clearInterval(this.timerId)};for(var g in p)this.settings[g]=p[g];this.id=i("childId")||p.id,this.messageRegex=new RegExp("^pym"+t+this.id+t+"(\\S+)"+t+"(.*)$");var m=parseInt(i("initialWidth"));return this.parentUrl=i(this.settings.parenturlparam),this.parentTitle=i("parentTitle"),this.onMessage("width",this._onWidthMessage),window.addEventListener("message",this._processMessage,!1),this.settings.renderCallback&&this.settings.renderCallback(m),this.sendHeight(),this.settings.polling&&(this.timerId=window.setInterval(this.sendHeight,this.settings.polling)),f(p.onMarkedEmbeddedStatus),this},typeof document<"u"&&n.autoInit(!0),n})})(P6);var Di=P6.exports;const hi=b7(Di);function Ti(e){let t,n,r,i,a,o,s,c,u,l,d,p,f,g,m,I,h,T,v,y,R,P,w,Y,C,k,b,E;t=new F0({});function M(N){e[2](N)}function V(N){e[3](N)}let _={lines:L5};e[1]!==void 0&&(_.activeLayer=e[1]),e[0]!==void 0&&(_.activeLine=e[0]),f=new Ii({props:_}),q1.push(()=>u4(f,"activeLayer",M)),q1.push(()=>u4(f,"activeLine",V));function j(N){e[4](N)}let X={activeLayer:e[1]};e[0]!==void 0&&(X.activeLine=e[0]),h=new vn({props:X}),q1.push(()=>u4(h,"activeLine",j)),y=new Sn({props:{activeLine:e[0]}});function q(N){e[5](N)}let O={data:L5};return e[0]!==void 0&&(O.activeLine=e[0]),P=new Cn({props:O}),q1.push(()=>u4(P,"activeLine",q)),{c(){D1(t.$$.fragment),n=Z(),r=W("div"),i=W("h1"),i.textContent="Visualizing electric transmission permitting: data from 2010 to 2020",a=Z(),o=W("p"),o.innerHTML=`The Niskanen Center and Clean Air Task Force published a report in March
     2024 that assesses how federal permitting impacted new transmission lines
     added to the U.S. bulk power system from 2010 to 2020. This companion
     visualization provides a mapping tool and tabular data based on the dataset

diff --git a/src/components/Legend.svelte b/src/components/Legend.svelte
@@ -8,6 +8,7 @@
   export let type;
   export let layout = "left";
   export let direction = "row";
+  export let minValue = undefined;
 
   let legendItems = values.map((category, index) => ({
     category,
@@ -47,12 +48,38 @@
         </div>
       </div>
     </div>
+  {:else if type == "ruler"}
+    <div class="g-legend__ruler">
+      {#if minValue}
+        <div class="g-legend__ruler-tick">
+          <div class="g-legend__ruler-label">{minValue}</div>
+        </div>
+      {/if}
+      {#each values as value, index}
+        <div class="g-legend__ruler-item">
+          <div
+            class="g-legend__ruler-bar"
+            style="background-color: {colors[index]};"
+          ></div>
+          <div class="g-legend__ruler-tick">
+            <div class="g-legend__ruler-label">{value}</div>
+          </div>
+        </div>
+      {/each}
+      <div class="g-legend__ruler-item">
+        <div
+          class="g-legend__ruler-bar"
+          style="background-color: {colors[colors.length - 1]};"
+        ></div>
+      </div>
+    </div>
   {/if}
 </div>
 
 <style lang="scss">
   .g-legend {
     margin: 0.25rem 0;
+    filter: drop-shadow(0px 0px 5px #ccc);
 
     &.center {
       text-align: center;
@@ -138,6 +165,40 @@
       color: rgb(101, 101, 104);
       font-size: 12px;
       white-space: nowrap;
+    }
+
+    &__ruler {
+      display: flex;
+      justify-content: center;
+      @include mq("600px", "max-width") {
+        margin-bottom: 15px;
+      }
+    }
+
+    &__ruler-item {
+      display: flex;
+      align-items: start;
+    }
+
+    &__ruler-tick {
+      width: 1px;
+      height: 20px;
+      background-color: #999;
+      position: relative;
+    }
+
+    &__ruler-label {
+      position: absolute;
+      top: 27px;
+      left: 50%;
+      transform: translate(-50%, -50%);
+      color: rgb(101, 101, 104);
+      font-size: 12px;
+    }
+
+    &__ruler-bar {
+      width: 35px;
+      height: 14px;
     }
   }
 </style>

diff --git a/src/components/Map.svelte b/src/components/Map.svelte
@@ -101,16 +101,16 @@
   const windColors = [
     "#FFFFD9",
     "#EDF8DA",
-    "#C7EAB4",
+    "#C6E9B3",
     "#80CDBB",
     "#4BB7C5",
     "#3A91C0",
+    "#235FA8",
     "#263595",
     "#091D58",
   ];
 
-  const windValues = ["< 3", "4", "5", "6", "7", "8", "9", "≥ 10"];
-
+  const windValues = ["≥3", "4", "5", "6", "7", "8", "9", "≥10"];
 
   const solarColors = [
     "#FFFFCE",
@@ -121,9 +121,19 @@
     "#EF4D2B",
     "#E4201B",
     "#BD1825",
+    "#810C26",
   ];
 
-  const solarValues = ["< 4", "4.25", "4.5", "4.75", "5", "5.25", "5.5", "≥ 5.75"];
+  const solarValues = [
+    "≤4",
+    "4.25",
+    "4.5",
+    "4.75",
+    "5",
+    "5.25",
+    "5.5",
+    "≥5.75",
+  ];
 </script>
 
 <div class="legends">
@@ -140,7 +150,7 @@
     <Legend
       values={districtValues}
       colors={districtColors}
-      title="118th Congressional district control"
+      title="Political representation of U.S. congressional districts"
       layout="center"
       type="groups"
     />
@@ -153,7 +163,7 @@
       title="Annual average wind speed at 80 meters above surface level"
       subtitle="Wind speed (meter/second)"
       layout="center"
-      type="gradient"
+      type="ruler"
     />
   {/if}
 
@@ -161,10 +171,10 @@
     <Legend
       values={solarValues}
       colors={solarColors}
-      title="Global Horizontal Irradiance"
+      title="Annual average daily total solar resources"
       subtitle="kWh/m<sup>2</sup>/Day"
       layout="center"
-      type="gradient"
+      type="ruler"
     />
   {/if}
 </div>
@@ -240,6 +250,8 @@
 <style lang="scss">
   .g-map {
     position: relative;
+  
+
     svg {
       width: 100%;
       height: auto;

diff --git a/src/App.svelte b/src/App.svelte
@@ -74,20 +74,28 @@
   </div>
 
   <p class="credit">
-    Note: Note: All data is current through March 2024. Three additional lines
-    were added to the dataset since the report publication. All data is current
-    through March 2024. A more nuanced picture of some data entries, such as
-    Lead Federal Agency and Line Voltage, can be found in the original data
-    sources linked in Table A of our <a
+    Note: Transmission line data is current through March 2024. Three additional
+    lines were added to the dataset since publication of the <a
       href="https://www.niskanencenter.org/contextualizing-electric-transmission-permitting-data-from-2010-to-2020/"
-      target="_blank">data report</a
+      target="_blank">original data report</a
+    >
+    that month. A more nuanced picture of some of the included categories, such
+    as Lead Federal Agency and Line Voltage, can be found in the original data
+    sources linked in Table A of the same
+    <a
+      href="https://www.niskanencenter.org/contextualizing-electric-transmission-permitting-data-from-2010-to-2020/"
+      target="_blank">report</a
     >.
   </p>
 
   <p class="credit">
     Data: Niskanen Center and Clean Air Task Force; Solar and wind energy
-    resource data from <a href="https://www.nrel.gov/gis/">NREL</a>; Credit:
-    Niskanen Center
+    resource data courtesy of <a href="https://www.nrel.gov/gis/">NREL</a>;
+    Congressional district data courtesy of
+    <a
+      href="https://www.arcgis.com/home/item.html?id=9ffc6dc695374b169eadb5f1f6149c2a"
+      target="_blank">Esri</a
+    >; Credit: Niskanen Center
   </p>
 </div>
 

diff --git a/src/components/Controls.svelte b/src/components/Controls.svelte
@@ -8,7 +8,7 @@
   export let activeLayer;
 
   let layers = [
-    { value: "districts", label: "118th Congressional districts" },
+    { value: "districts", label: "Political representation of U.S. congressional districts" },
     {
       value: "solar",
       label: "Solar resource",
